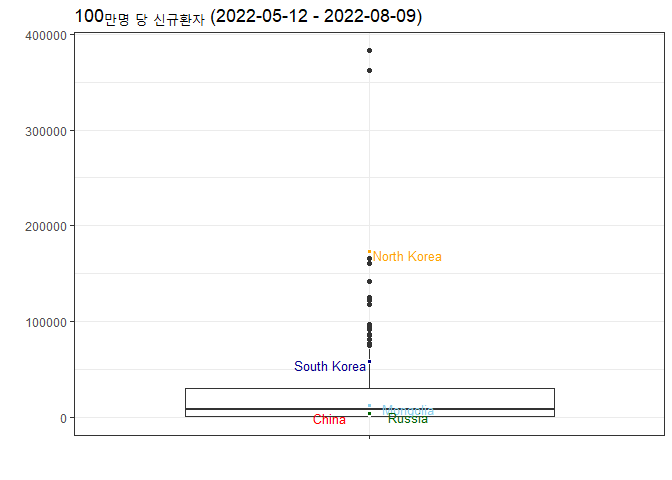
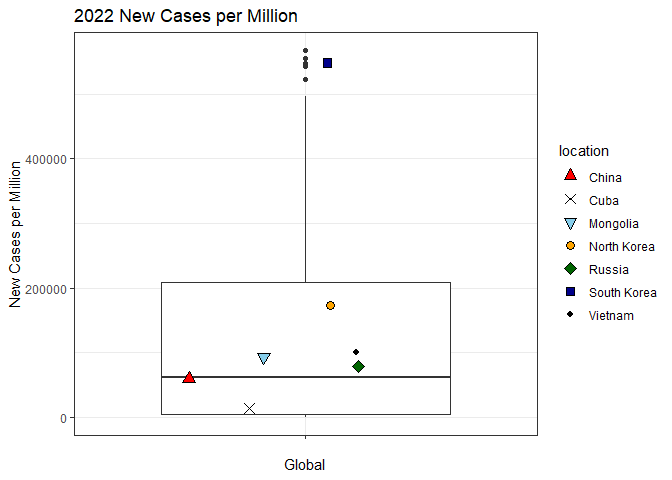
README file updated

diff --git a/README.md b/README.md
@@ -55,9 +55,8 @@ sourceCpp("src/models.cpp")
 유열자수에 기반한다. 조선중앙TV는 지역별로 일별 유열자수를 보여주는 데
 반해 로동신문 자료는 그렇지 않다. 반편 조선중앙TV는 결측자료가 많아
 조선중앙TV의 지역별 일별 환자수를 모두 합해도 로동신문 자료의 일별
-유열자수 보다 적다.
-
-### 지역별 기술 분석 요약표
+유열자수 보다 적다.  
+\### 지역별 기술 분석 요약표
 
 COVID-19 북한 지역 데이터를 로드하고 분석. 북한의 COVID-19 관련 데이터를
 처리하고, 각 지역 및 전체에 대한 요약 테이블을 생성한다.
@@ -728,7 +727,7 @@ expected_inf = cases/(1-parm$fA)
 expected_inf / parm$population
 ```
 
-    ## [1] 0.246687
+    ## [1] 0.2493077
 
 예상 롱코비드 환자수 계산
 
@@ -1183,59 +1182,75 @@ ggplot(data = df_countries, aes(x = continent, y = `2022_new_cases_per_million`)
 지리적으로 북한과 가깝고 체저가 유사한 나라를 골라서 북한과 비교
 
 ``` r
-# 선택한 국가값 표시
-# "North Korea", "South Korea", "Russia", "China", "Mongolia", "Vietnam", "Cuba" 국가값을 선택
-
-df_selected <- df_countries[df_countries$location %in% c("North Korea",
-                                                         "South Korea", "Russia", 
-                                                         "China", "Mongolia", 
-                                                         "Vietnam", "Cuba"), ]
-
-ggplot(data = df_countries, aes(x = "", y = `2022_new_cases_per_million`)) +
-  geom_boxplot() +
-  geom_point(data = df_selected, aes(x = "", y = `2022_new_cases_per_million`, fill = location), color = "white", shape = 21, size = 1.5) +
-  geom_text(data = df_selected, aes(x = "", y = `2022_new_cases_per_million`, label = location, color = location),
-            vjust = 0.2, size = 3.5, nudge_x = ifelse(df_selected$location == "South Korea", 0.12, ifelse(df_selected$location %in% c("Mongolia", "China"), -0.08, 0.08)), nudge_y = -100) +
-  scale_fill_manual(values = c("North Korea" = "orange", "South Korea" = "darkblue", "Russia" = "darkgreen", "China" = "red", "Mongolia" = "skyblue", "Vietnam" = "purple", "Cuba" = "brown")) +
-  scale_color_manual(values = c("North Korea" = "orange", "South Korea" = "darkblue", "Russia" = "darkgreen", "China" = "red", "Mongolia" = "skyblue", "Vietnam" = "purple", "Cuba" = "brown")) +
-  scale_y_continuous(labels = function(x) format(x, scientific = FALSE)) +
-  theme_bw() +
-  theme(legend.position = "none") +
-  labs(title = "100만명 당 신규환자 (2022년)",
-       y = "",
-       x = "")
+# 주변 국가와의 비교 (2022)
+df_ordered <- df_countries[order(df_countries$`2022_new_cases_per_million`, decreasing=T),]
+head(df_ordered)
 ```
 
-![](README_files/figure-gfm/unnamed-chunk-29-1.png)<!-- -->
-
-북한 자료가 있는 5-7월 기간 동안 백만 명당 신규 사례에 대한 박스 플롯
-생성
+    ## # A tibble: 6 × 11
+    ##   iso_code continent     location  2020_new_cases_per_m…¹ 2021_new_cases_per_m…²
+    ##   <chr>    <chr>         <chr>                      <dbl>                  <dbl>
+    ## 1 BRN      Asia          Brunei                      350.                 34113.
+    ## 2 SPM      North America Saint Pi…                  2719.                 13934.
+    ## 3 KOR      Asia          South Ko…                  1172.                 11088.
+    ## 4 FRO      Europe        Faeroe I…                 11446.                 97163.
+    ## 5 CYP      Europe        Cyprus                    24941.                155615.
+    ## 6 AUT      Europe        Austria                   39449.                102003.
+    ## # ℹ abbreviated names: ¹`2020_new_cases_per_million`,
+    ## #   ²`2021_new_cases_per_million`
+    ## # ℹ 6 more variables: `2022_new_cases_per_million` <dbl>,
+    ## #   `2023_new_cases_per_million` <dbl>, `2020_new_deaths_per_million` <dbl>,
+    ## #   `2021_new_deaths_per_million` <dbl>, `2022_new_deaths_per_million` <dbl>,
+    ## #   `2023_new_deaths_per_million` <dbl>
 
 ``` r
-df_selected_NKperiod <- df_countries_NKperiod[df_countries_NKperiod$location %in% 
-                                                c("North Korea", "South Korea", 
-                                                  "Russia", "China", "Mongolia"), ]
+# Brunei: as of 2020 the country had a population of 460,345 according to the Wikipedia (https://en.wikipedia.org/wiki/Brunei)
+# Saint Pierre and Miquelona: population of 6,008 as of the March 2016 census (https://en.wikipedia.org/wiki/Saint_Pierre_and_Miquelon)
+```
 
-ggplot(data = df_countries_NKperiod, aes(x = "", y = `2022_new_cases_per_million`)) +
+지리적으로 북한과 가깝고 체저가 유사한 나라를 골라서 북한과 비교 플롯
+
+``` r
+# "North Korea", "South Korea", "Russia", "China", "Mongolia", "Vietnam", "Cuba" 국가값을 선택
+df_selected <- df_countries[df_countries$location %in% c("North Korea", "South Korea", "Russia", "China", "Mongolia", "Vietnam", "Cuba"), ]
+
+# 2022년 백만 명당 신규 케이스에 대한 박스플롯을 생성
+p1 <-ggplot(data = df_countries, aes(x = "", y = `2022_new_cases_per_million`)) +
   geom_boxplot() +
-  geom_point(data = df_selected_NKperiod, aes(x = "", y = `2022_new_cases_per_million`, fill = location), color = "white", shape = 21, size = 1.5) +
-  geom_text(data = df_selected_NKperiod, aes(x = "", y = `2022_new_cases_per_million`, label = location, color = location),
-            vjust = 0.8, size = 3.5, nudge_x = ifelse(df_selected_NKperiod$location == "Mongolia", 0.08, ifelse(df_selected_NKperiod$location %in% c("South Korea", "China"), -0.08, 0.08)), nudge_y = -100) +
-  scale_fill_manual(values = c("South Korea" = "darkblue", "Russia" = "darkgreen", "China" = "red", "Mongolia" = "skyblue","North Korea" = "orange")) +
-  scale_color_manual(values = c("South Korea" = "darkblue", "Russia" = "darkgreen", "China" = "red", "Mongolia" = "skyblue","North Korea" = "orange")) +
+  geom_point(data = df_selected, 
+             aes(x = "", y = `2022_new_cases_per_million`, 
+                 fill = location, shape = location), 
+             position = position_jitterdodge(jitter.width = 0.2, dodge.width = 0.5),
+             color = "black", size = 3) +
   scale_y_continuous(labels = function(x) format(x, scientific = FALSE)) +
+  labs(title = "2022 New Cases per Million",
+       y = "New Cases per Million",
+       x = "Global") +
   theme_bw() +
-  theme(legend.position = "none") +
-  labs(title = "100만명 당 신규환자 (2022-05-12 - 2022-08-09)",
-       y = "",
-       x = "")
+  scale_fill_manual(values = c("North Korea" = "orange", "South Korea" = "darkblue", 
+                               "Russia" = "darkgreen", "China" = "red", 
+                               "Mongolia" = "skyblue", "Vietnam" = "purple", "Cuba" = "brown")) +
+  scale_shape_manual(values = c("North Korea" = 21, "South Korea" = 22, 
+                                "Russia" = 23, "China" = 24, 
+                                "Mongolia" = 25, "Vietnam" = 20, "Cuba" = 4)) +
+  theme(legend.position = "right")
+
+p1  
 ```
 
 ![](README_files/figure-gfm/unnamed-chunk-30-1.png)<!-- -->
 
 ``` r
-df_sorted <- df_countries_NKperiod[order(df_countries_NKperiod$`2022_new_cases_per_million`, decreasing=TRUE),]
-head(df_sorted)
+# 그래프를 파일로 저장 ([그림] 주변 국가와의 비교 (2022))
+# ggsave("plots/plot_boxplot_2022period.png", plot = p1)
+```
+
+북한 자료가 있는 5-7월 기간 동안 백만 명당 신규 사례에 대한 박스 플롯
+생성
+
+``` r
+df_countries_NKperiod_ordered <- df_countries_NKperiod[order(df_countries_NKperiod$`2022_new_cases_per_million`, decreasing=T),]
+head(df_countries_NKperiod_ordered)
 ```
 
     ## # A tibble: 6 × 5
@@ -1254,4 +1269,39 @@ head(df_sorted)
 # Only two areas have higher COVID-19 incidence per 1,000,000 people: 
 # Falkland Islands and Nauru. These two islands have the population sizes of 
 # 3,662 (2021 census) and 10,084 (2021 census), respectively.
+```
+
+``` r
+# 주변 국가와의 비교 (2022-05-12 – 2022-08-09)
+df_selected_NKperiod <- df_countries_NKperiod[df_countries_NKperiod$location %in% c("North Korea", "South Korea", "Russia", "China", "Mongolia", "Vietnam", "Cuba"), ]
+
+# 북한 자료의 데이터 기간 동안의 백만 명당 신규 사례에 대한 박스 플롯 생성
+p2 <- ggplot(data = df_countries_NKperiod, aes(x = "", y = `2022_new_cases_per_million`)) +
+  geom_boxplot() +
+  geom_point(data = df_selected_NKperiod, 
+             aes(x = "", y = `2022_new_cases_per_million`, 
+                 fill = location, shape = location), 
+             position = position_jitterdodge(jitter.width = 0.2, dodge.width = 0.6),
+             color = "black", size = 3) +
+  scale_y_continuous(labels = function(x) format(x, scientific = FALSE)) +
+  labs(title = "New Cases per Million (2022-05-12 - 2022-08-09)",
+       y = "New Cases per Million",
+       x = "Global") +
+  theme_bw() +
+  scale_fill_manual(values = c("North Korea" = "orange", "South Korea" = "darkblue", 
+                               "Russia" = "darkgreen", "China" = "red", 
+                               "Mongolia" = "skyblue", "Vietnam" = "purple", "Cuba" = "brown")) +
+  scale_shape_manual(values = c("North Korea" = 21, "South Korea" = 22, 
+                                "Russia" = 23, "China" = 24, 
+                                "Mongolia" = 25, "Vietnam" = 20, "Cuba" = 4)) +
+  theme(legend.position = "right")
+
+p2
+```
+
+![](README_files/figure-gfm/unnamed-chunk-32-1.png)<!-- -->
+
+``` r
+# 그래프를 파일로 저장 ([그림] 주변 국가와의 비교 (2022-05-12 – 2022-08-09))
+# ggsave("plots/plot_boxplot_NKperiod.png", plot = p2)
 ```
